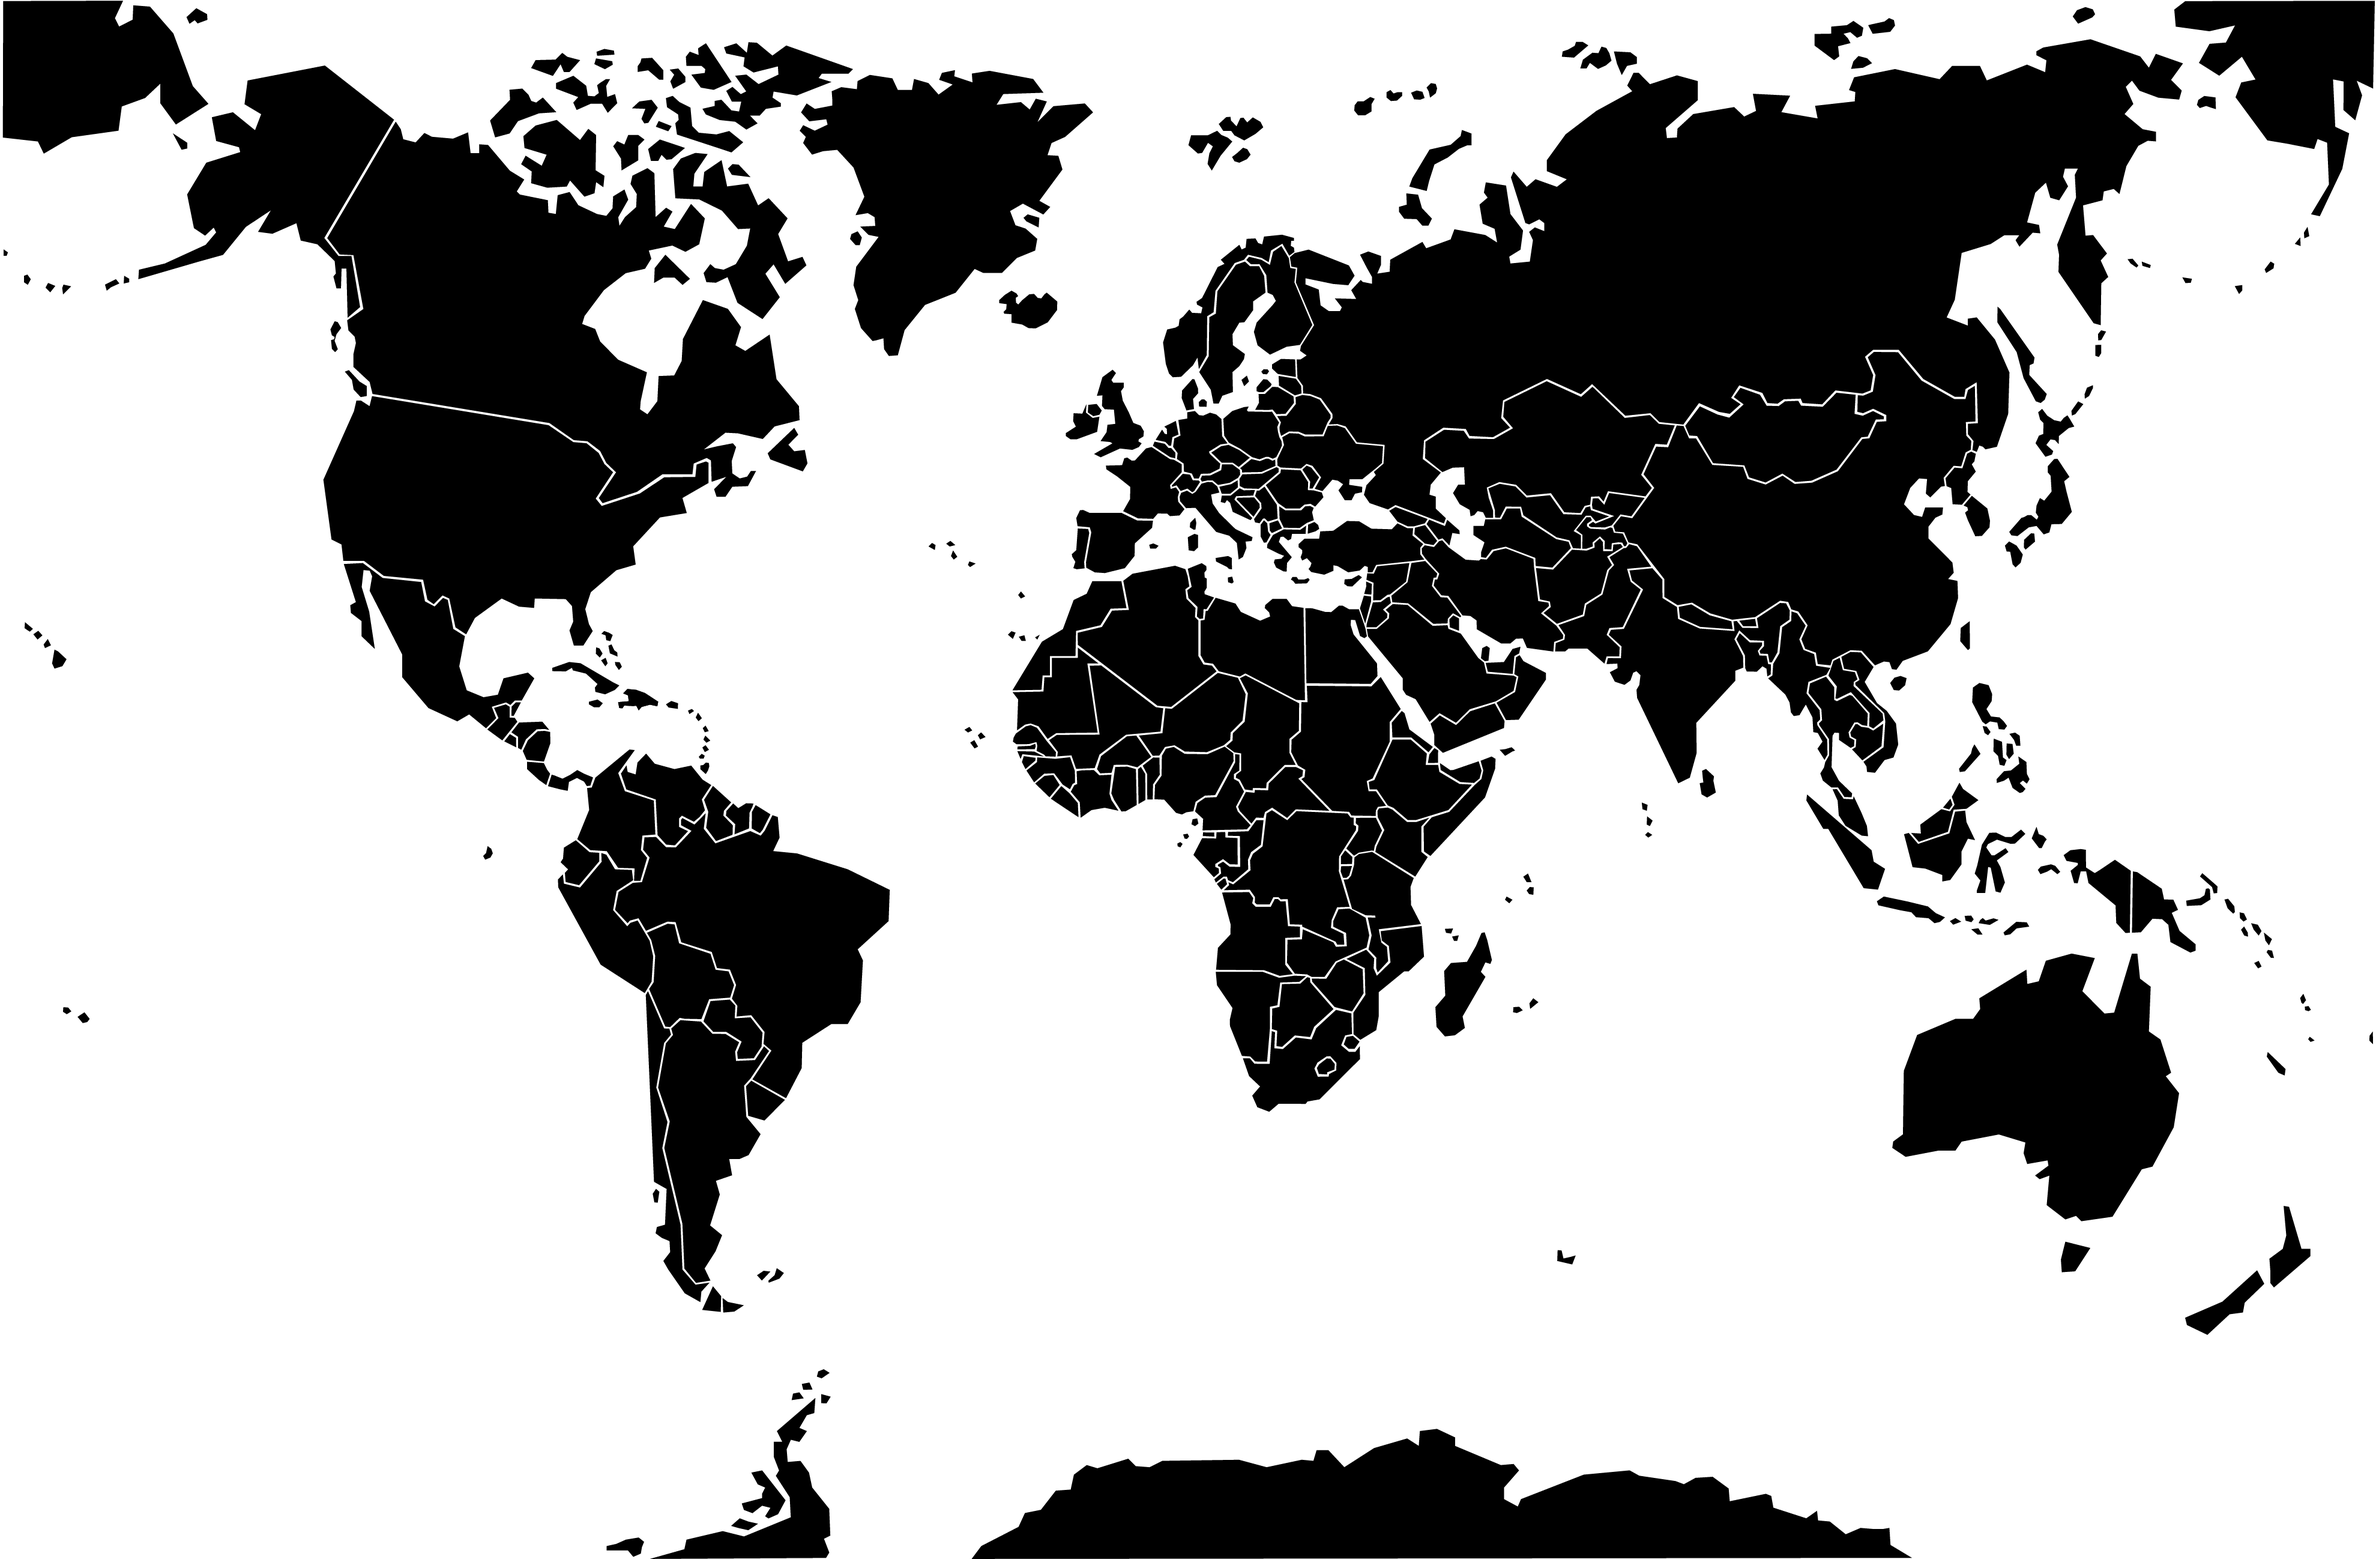
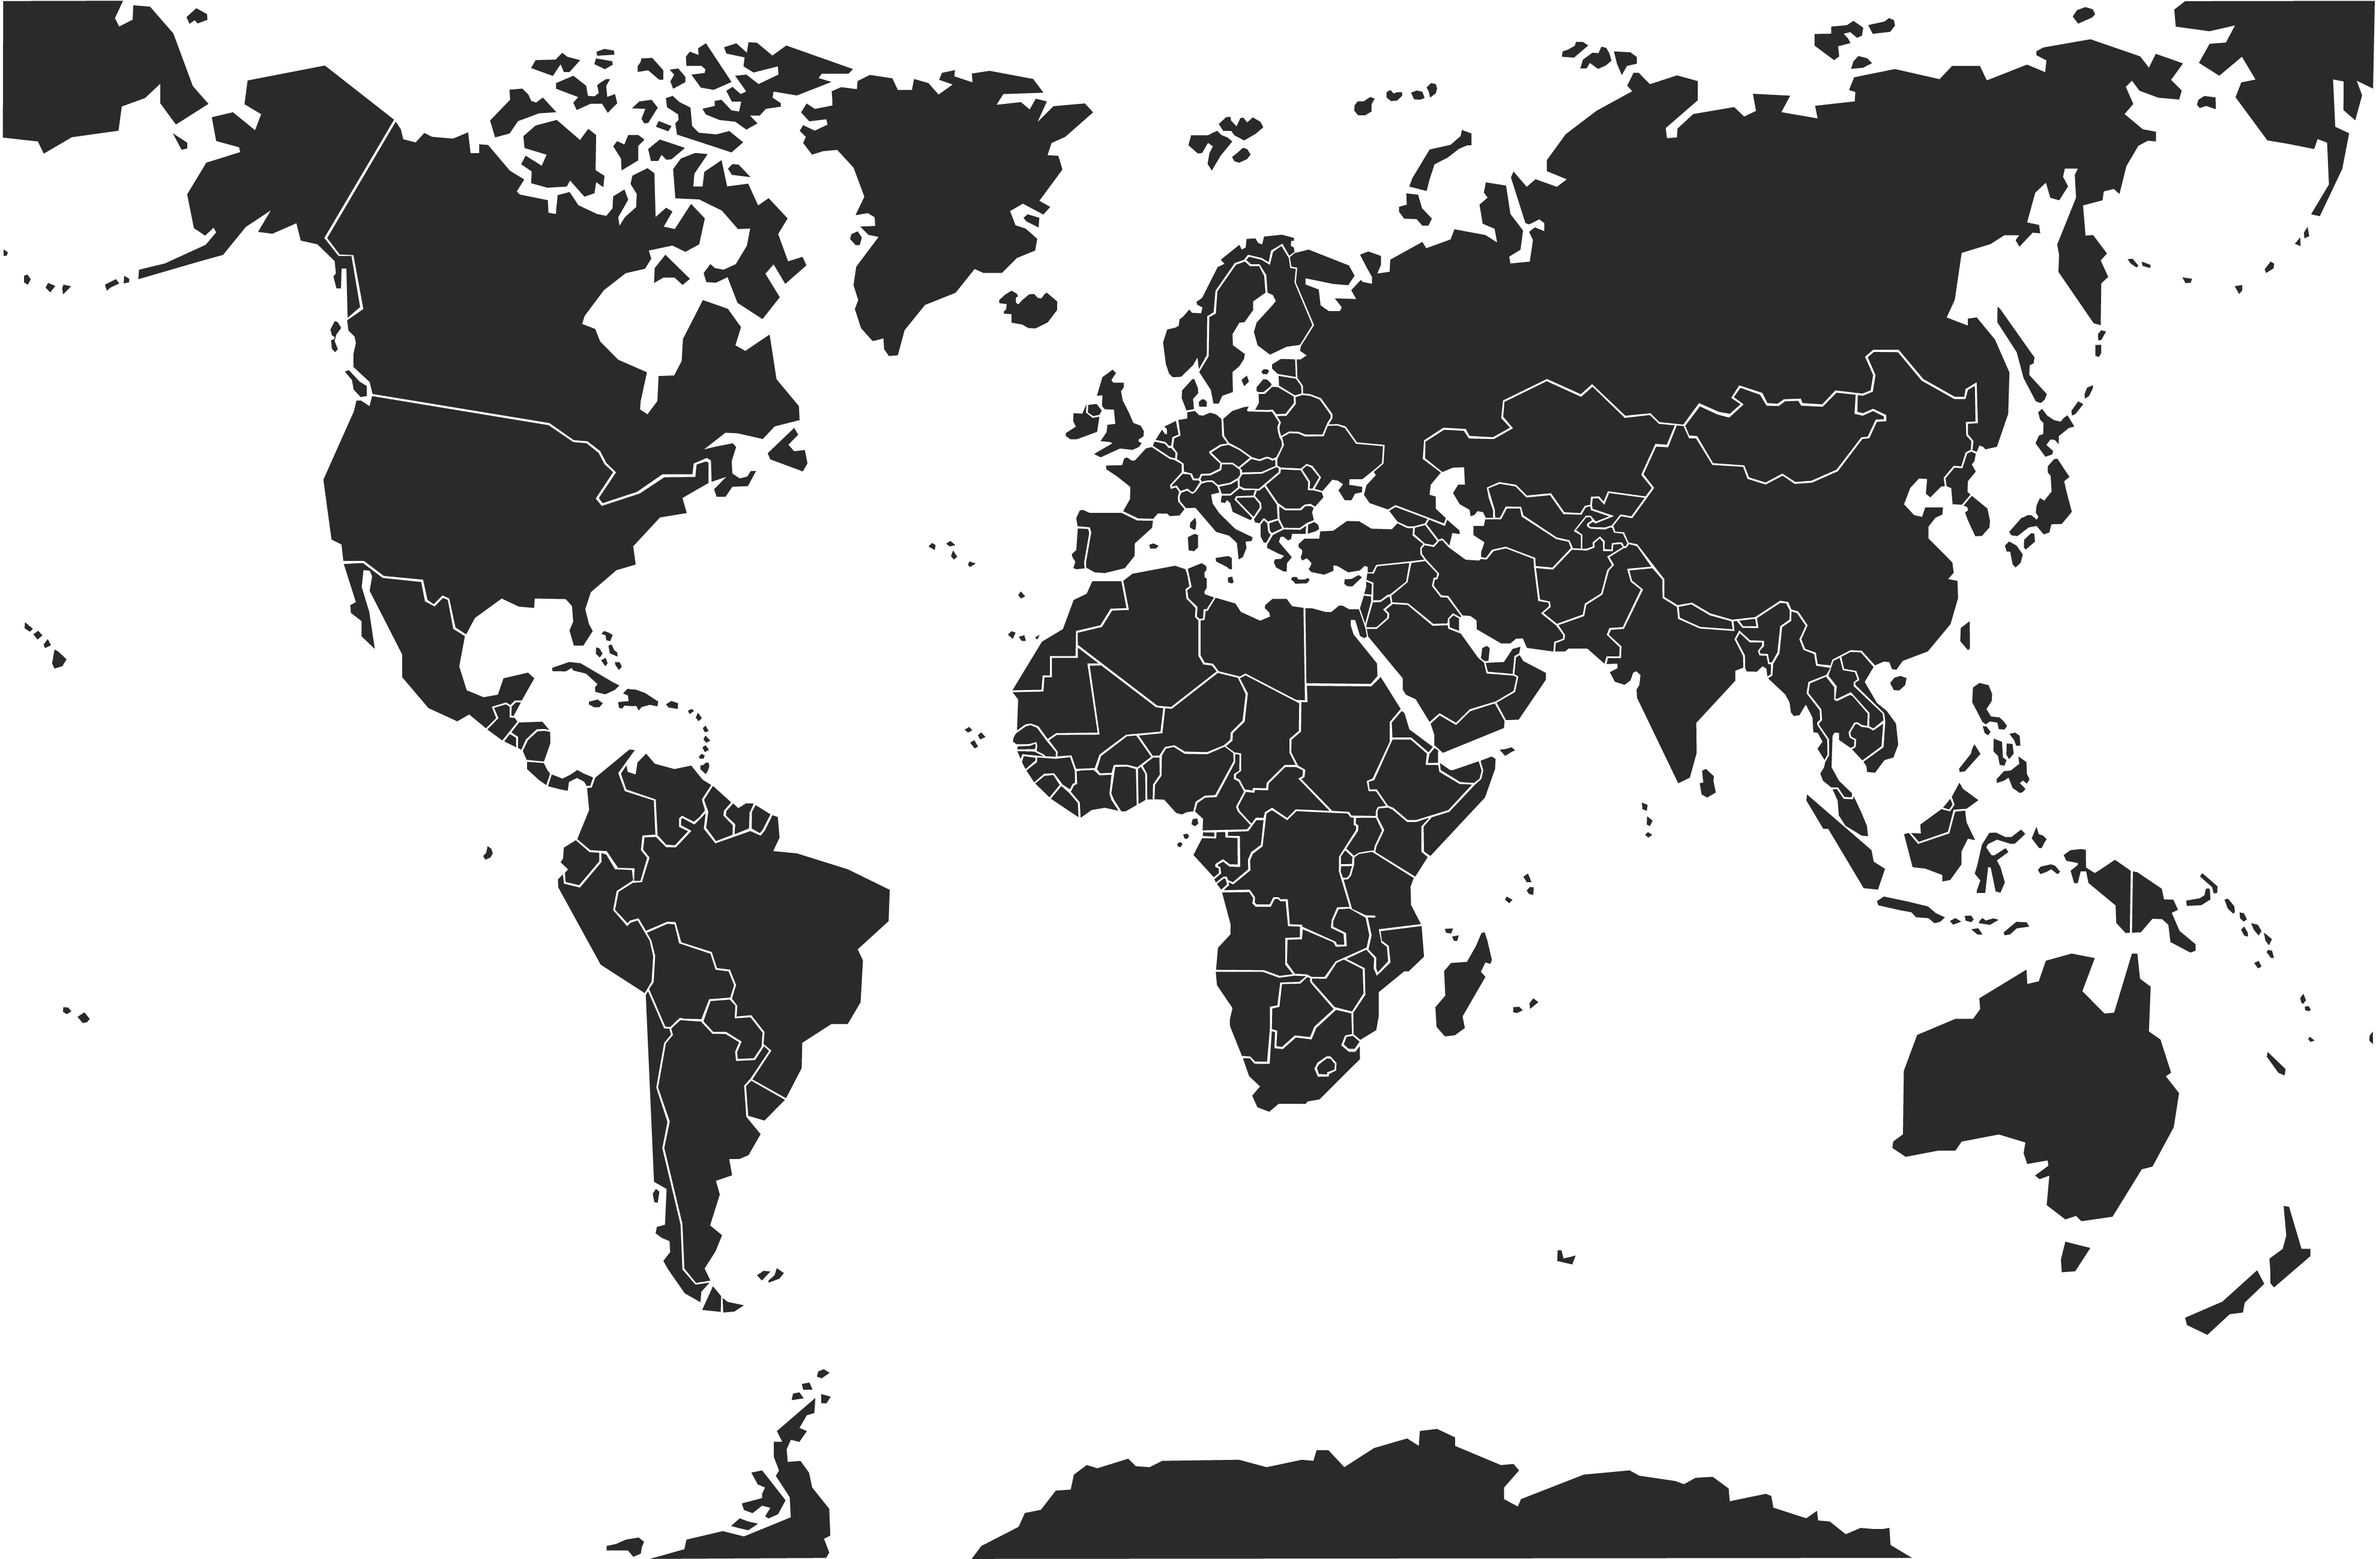
New map color

diff --git a/css/style.css b/css/style.css
@@ -16,7 +16,7 @@
 }*/
 .a {
 	font-weight: bold;
-	color: #b0b0b0 !important;
+	color: #858585 !important;
 }
 .a:hover{
 	text-decoration: none;
